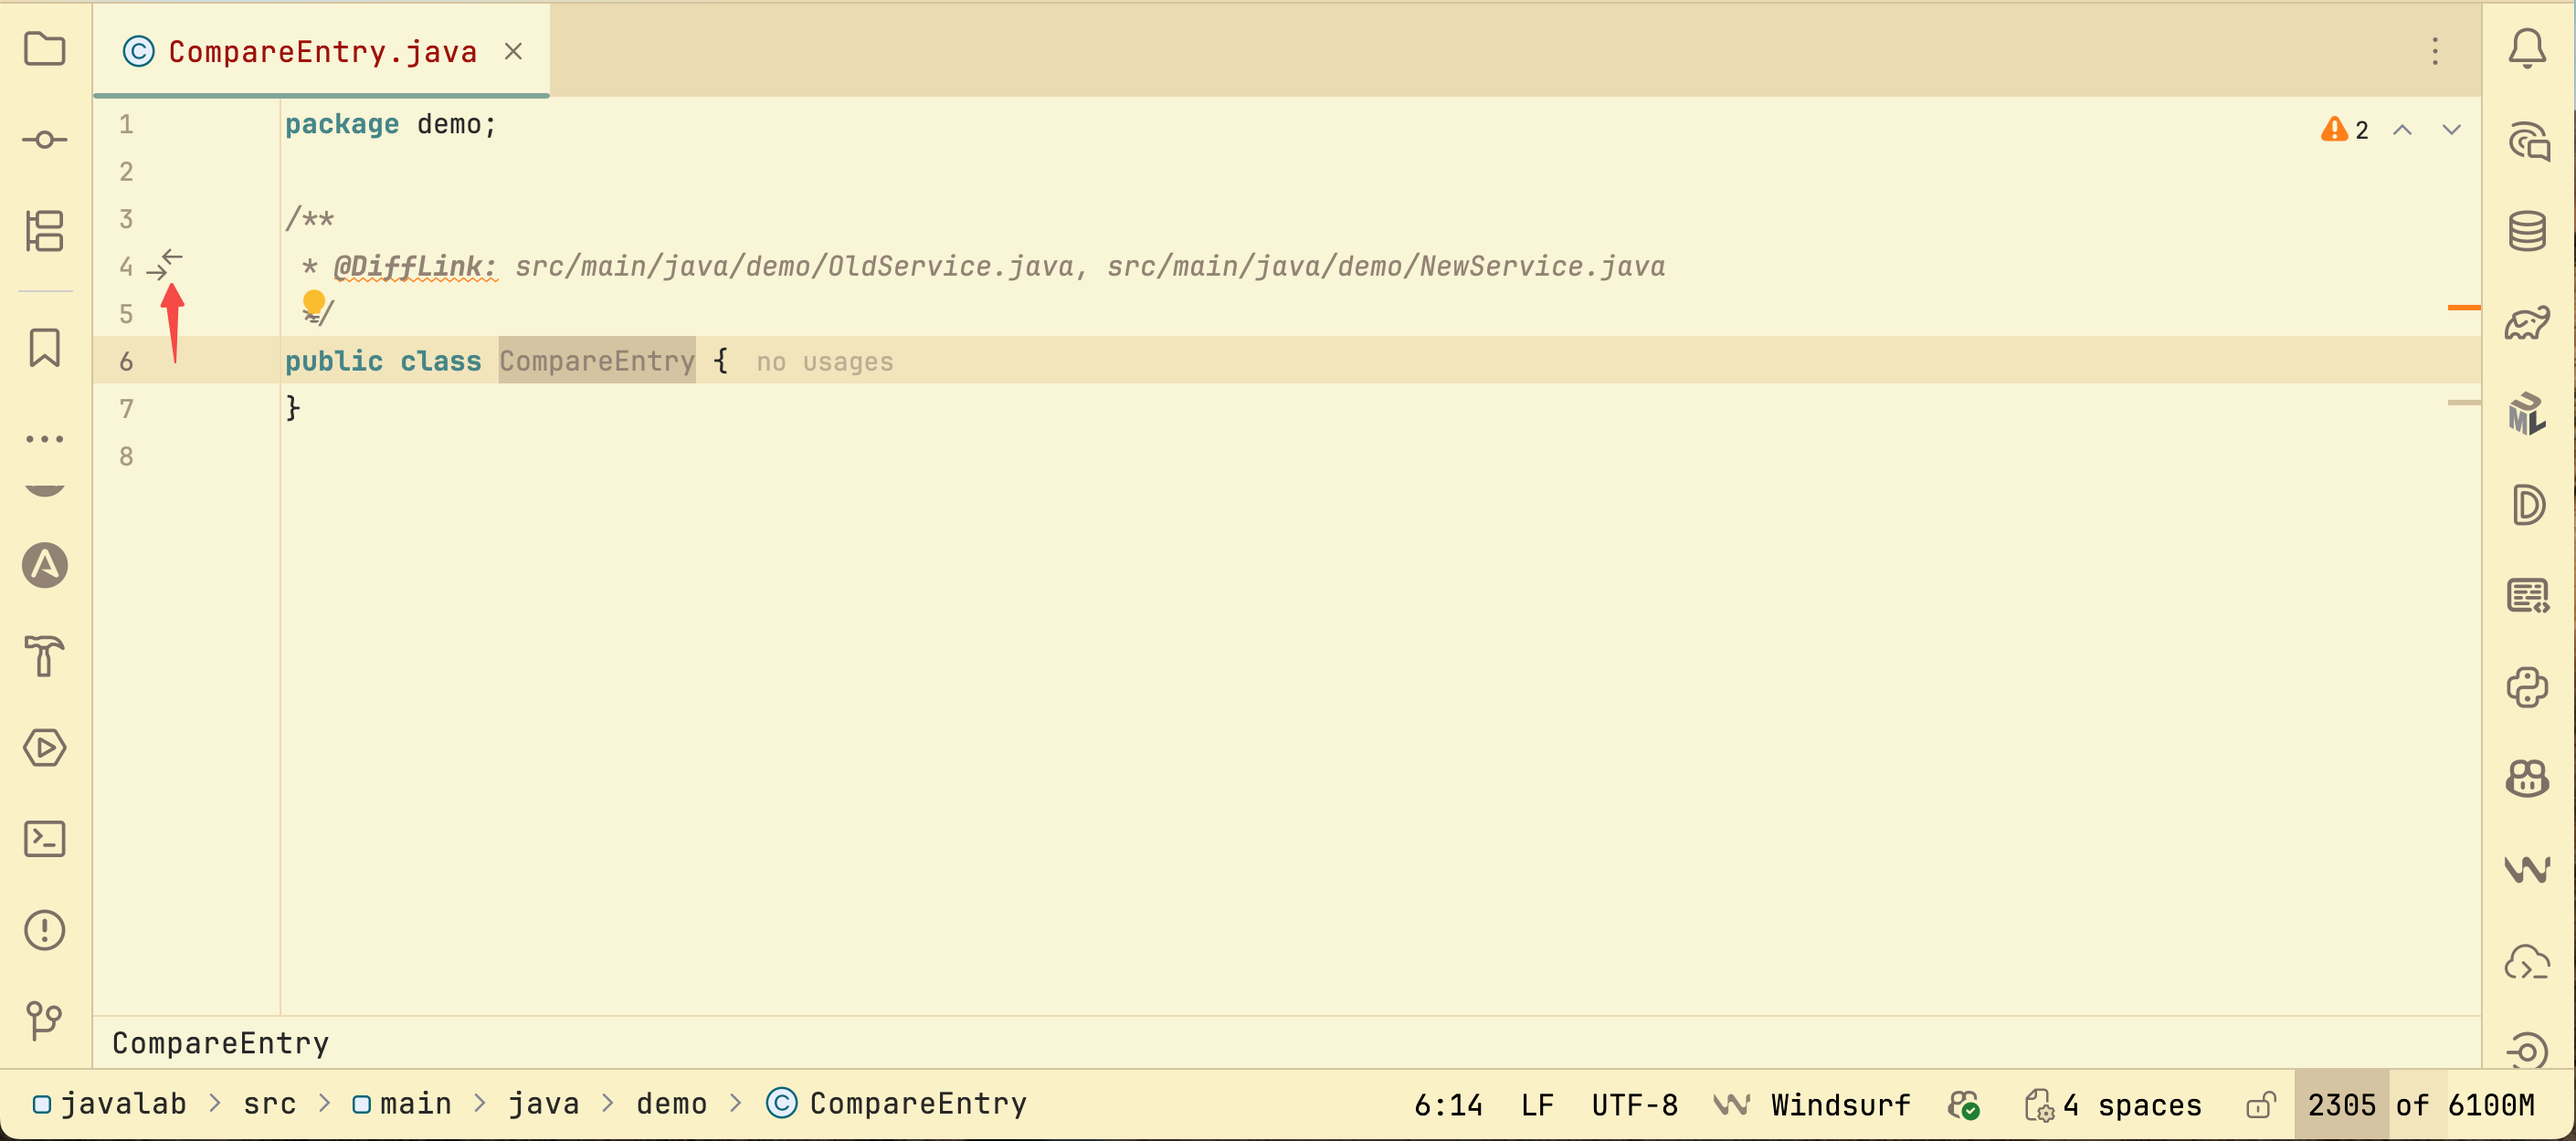
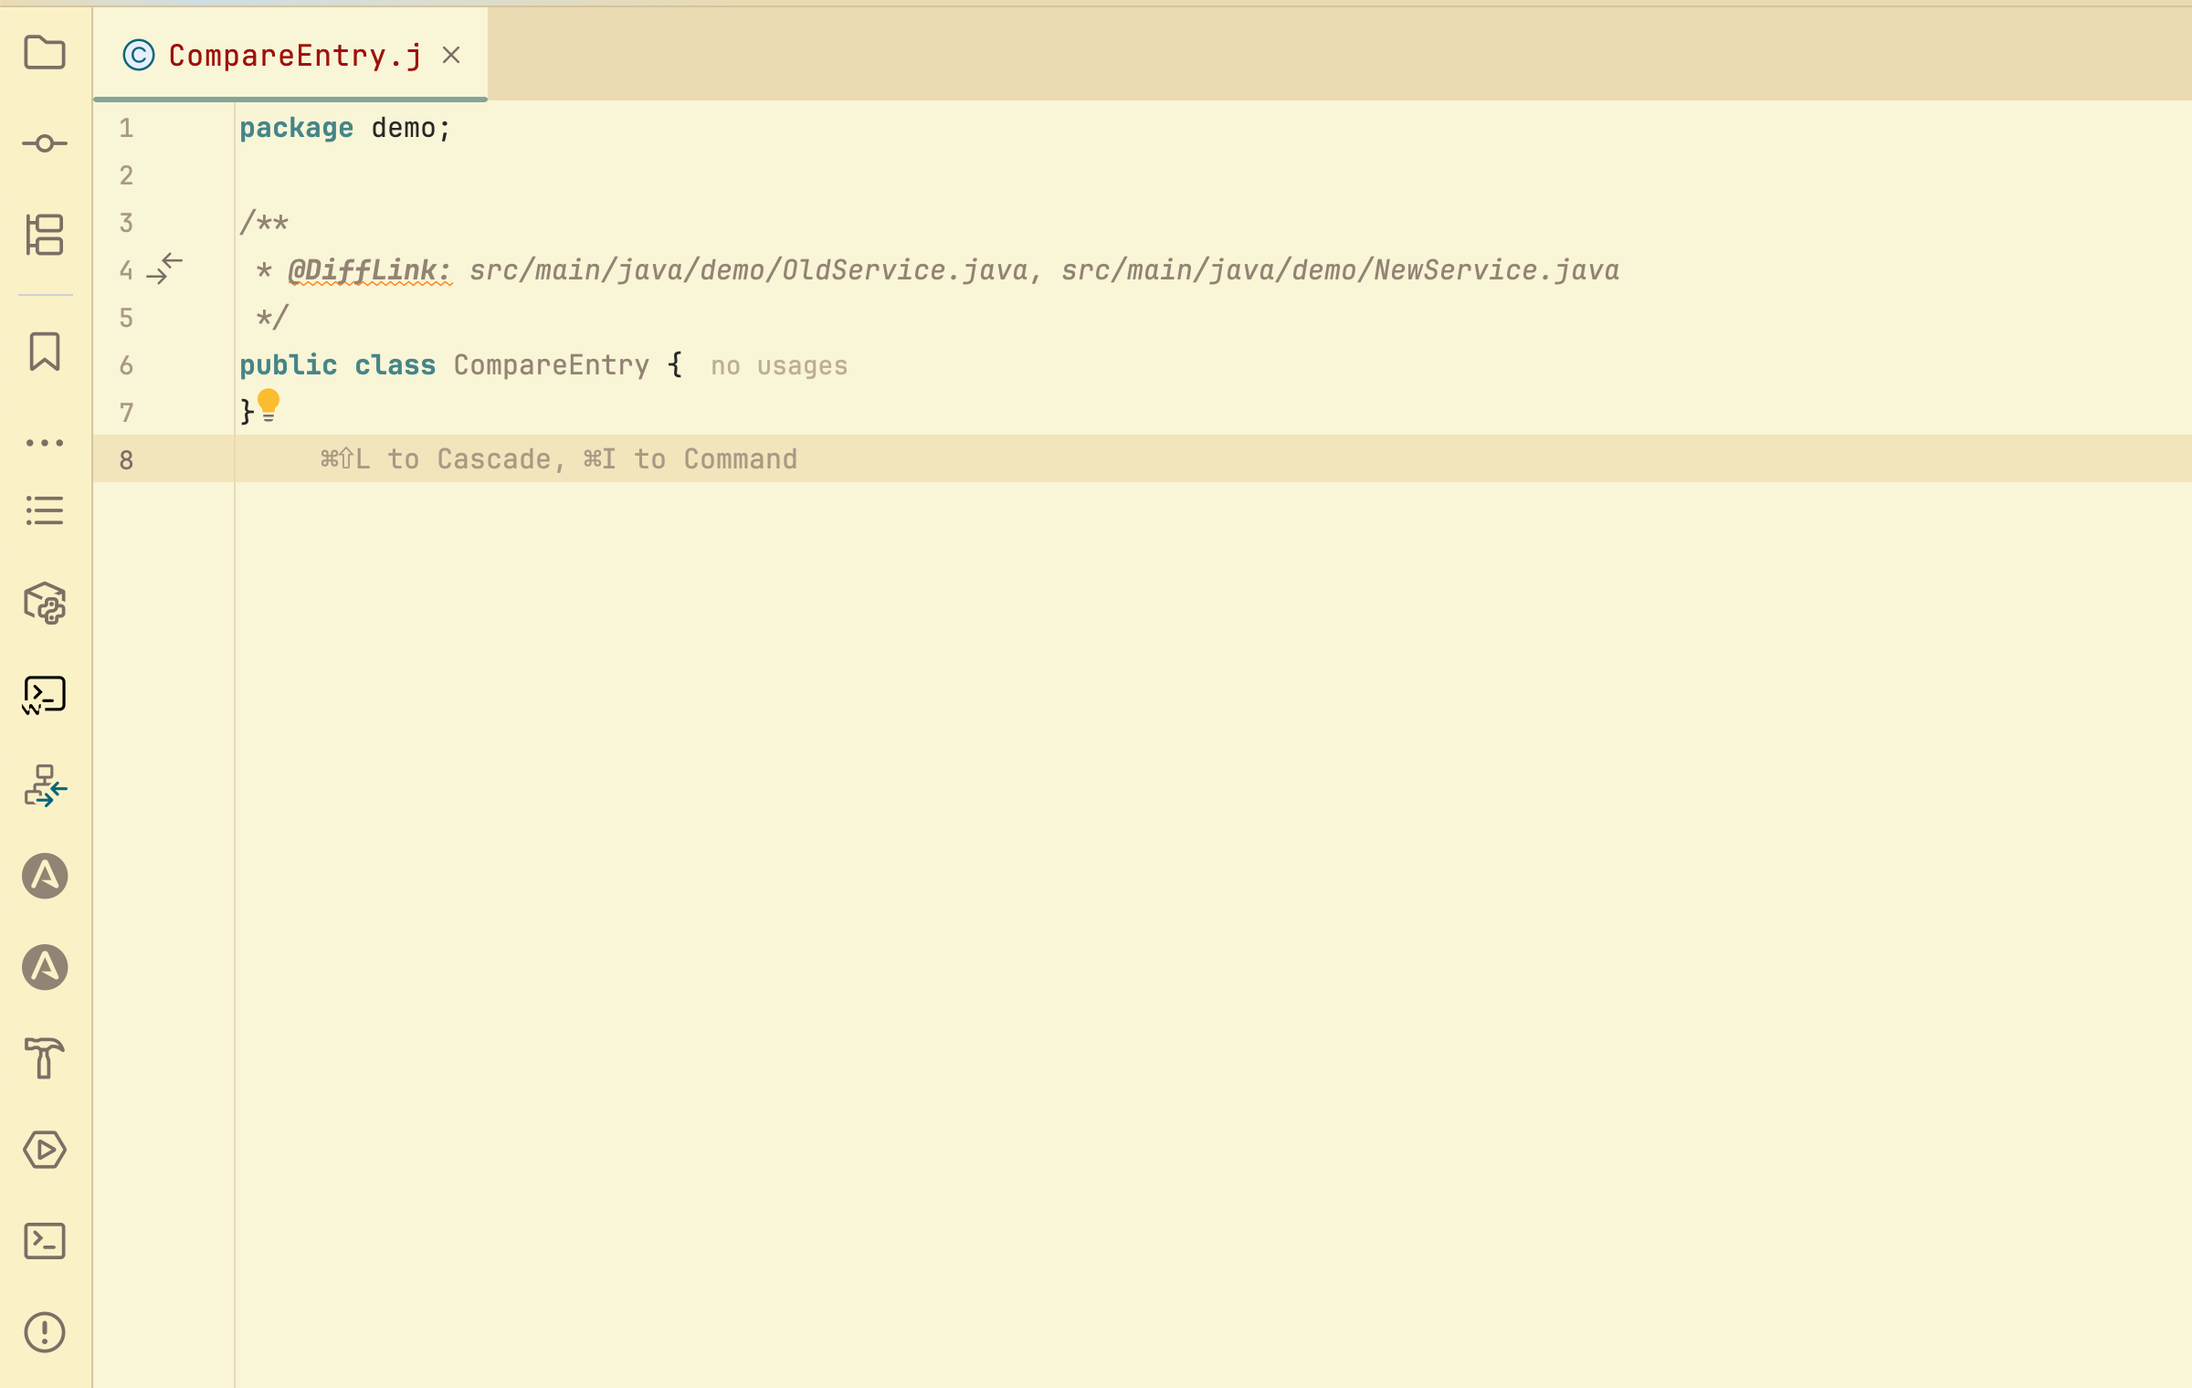
.

diff --git a/CHANGELOG.md b/CHANGELOG.md
@@ -1,5 +1,12 @@
 # Changelog
 
+## [1.0.1] - 2026-04-22
+
+### Changed
+- Expanded plugin description metadata for Marketplace with richer usage details.
+- Embedded public screenshot URLs in plugin description so local ZIP installs can preview images.
+- Bumped plugin version to 1.0.1 for republishing.
+
 ## [1.0.0] - 2026-04-22
 
 ### Added
